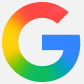
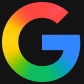
Use Google's dark sign-in theme

diff --git a/apps/web/src/integration/style.css b/apps/web/src/integration/style.css
@@ -84,12 +84,12 @@
   background: #2a2a2d;
 }
 .roster-login button.roster-login-primary {
-  background: #f2f2f2;
-  color: #1f1f1f;
-  border-color: transparent;
+  background: #131314;
+  color: #e3e3e3;
+  border-color: #8e918f;
 }
 .roster-login button.roster-login-primary:hover {
-  background: #fff;
+  background: #242425;
 }
 .roster-login button:focus-visible {
   outline: 2px solid #b7bcff;
